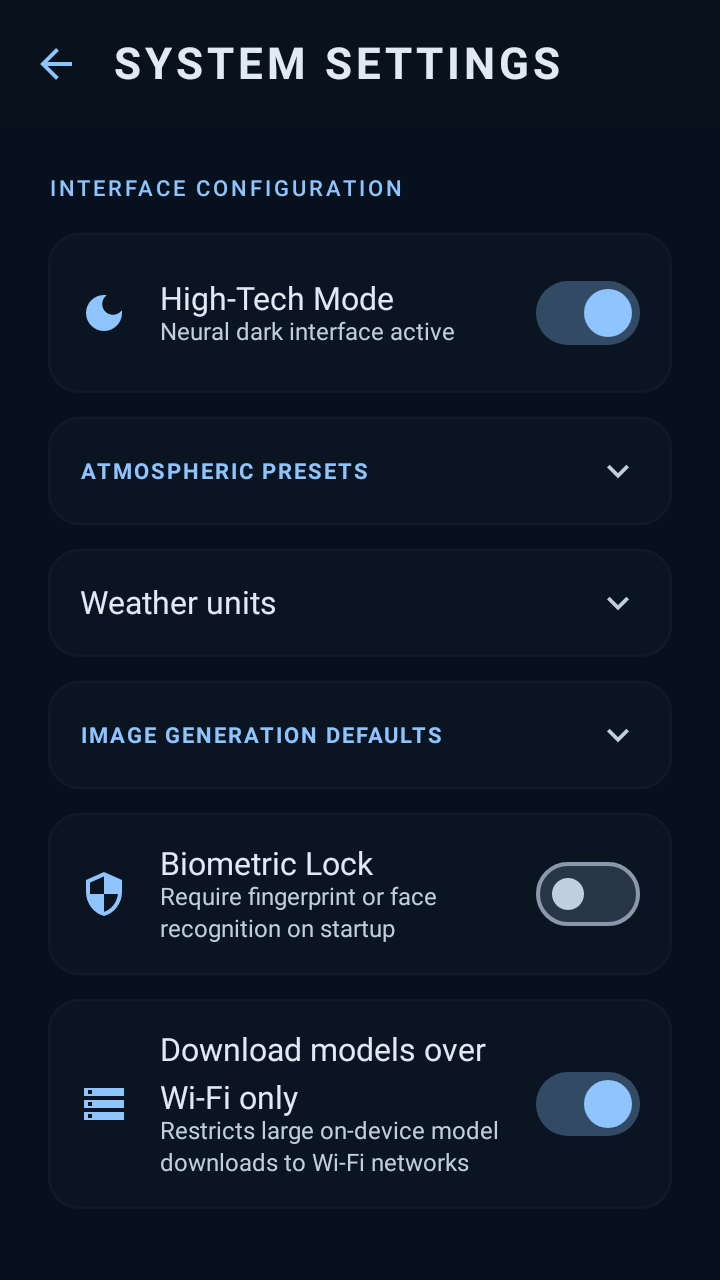
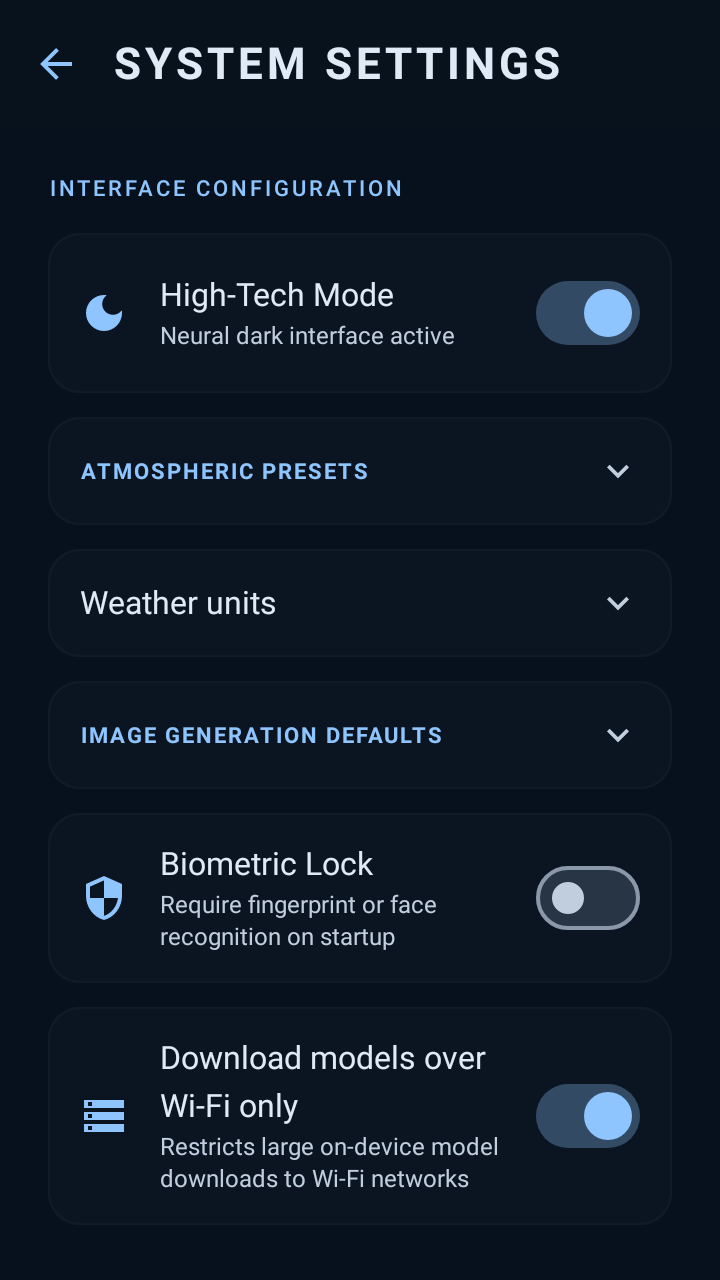
impl: Refactor settings toggles to use reusable SettingsToggleCard, and fix biometric lock padding

diff --git a/app/src/main/java/com/neo/chevere/ui/settings/SettingsScreen.kt b/app/src/main/java/com/neo/chevere/ui/settings/SettingsScreen.kt
@@ -48,7 +48,6 @@ import androidx.compose.runtime.getValue
 import androidx.compose.runtime.mutableStateOf
 import androidx.compose.runtime.remember
 import androidx.compose.runtime.setValue
-import androidx.compose.ui.Alignment
 import androidx.compose.ui.Modifier
 import androidx.compose.ui.graphics.Color
 import androidx.compose.ui.platform.LocalContext
@@ -66,6 +65,7 @@ import androidx.compose.material3.OutlinedTextField
 import androidx.compose.material3.OutlinedTextFieldDefaults
 import androidx.compose.material3.Slider
 import androidx.compose.material3.SliderDefaults
+import androidx.compose.ui.Alignment
 import com.neo.chevere.ui.common.ChevereHaptic
 import com.neo.chevere.ui.common.performChevereHaptic
 import com.neo.chevere.ui.designsystem.AtmosphericTheme
@@ -157,59 +157,18 @@ fun SettingsContent(
                     modifier = Modifier.padding(bottom = 16.dp)
                 )
 
-                Surface(
-                    color = MaterialTheme.colorScheme.surfaceContainerLow.copy(alpha = 0.5f),
-                    shape = RoundedCornerShape(16.dp),
-                    border = BorderStroke(
-                        1.dp,
-                        MaterialTheme.colorScheme.outlineVariant.copy(alpha = 0.1f)
-                    )
-                ) {
-                    Row(
-                        modifier = Modifier
-                            .fillMaxWidth()
-                            .padding(16.dp),
-                        verticalAlignment = Alignment.CenterVertically,
-                        horizontalArrangement = Arrangement.SpaceBetween
-                    ) {
-                        Row(verticalAlignment = Alignment.CenterVertically) {
-                            Icon(
-                                imageVector = if (state.isDarkMode) Icons.Default.DarkMode else Icons.Default.LightMode,
-                                contentDescription = null,
-                                tint = MaterialTheme.colorScheme.primary,
-                                modifier = Modifier.size(24.dp)
-                            )
-                            Spacer(Modifier.width(16.dp))
-                            Column {
-                                Text(
-                                    stringResource(R.string.high_tech_mode),
-                                    style = Typography.bodyLarge,
-                                    color = MaterialTheme.colorScheme.onSurface
-                                )
-                                Text(
-                                    if (state.isDarkMode) stringResource(R.string.neural_dark_active) else stringResource(
-                                        R.string.standard_light_active
-                                    ),
-                                    style = Typography.bodySmall,
-                                    color = MaterialTheme.colorScheme.onSurfaceVariant
-                                )
-                            }
-                        }
-                        Switch(
-                            checked = state.isDarkMode,
-                            onCheckedChange = {
-                                hapticView.performChevereHaptic(ChevereHaptic.Selection)
-                                viewModel.onIntent(SettingsIntent.UpdateTheme(it))
-                            },
-                            colors = SwitchDefaults.colors(
-                                checkedThumbColor = MaterialTheme.colorScheme.primary,
-                                checkedTrackColor = MaterialTheme.colorScheme.primary.copy(alpha = 0.3f),
-                                uncheckedThumbColor = MaterialTheme.colorScheme.onSurfaceVariant,
-                                uncheckedTrackColor = MaterialTheme.colorScheme.surfaceContainerHighest
-                            )
-                        )
+                // High-Tech Mode Card (Theme)
+                SettingsToggleCard(
+                    icon = if (state.isDarkMode) Icons.Default.DarkMode else Icons.Default.LightMode,
+                    title = stringResource(R.string.high_tech_mode),
+                    subtitle = if (state.isDarkMode) stringResource(R.string.neural_dark_active) else stringResource(
+                        R.string.standard_light_active
+                    ),
+                    checked = state.isDarkMode,
+                    onCheckedChange = {
+                        viewModel.onIntent(SettingsIntent.UpdateTheme(it))
                     }
-                }
+                )
 
                 Spacer(Modifier.height(12.dp))
 
@@ -254,120 +213,28 @@ fun SettingsContent(
                 Spacer(Modifier.height(12.dp))
 
                 // Biometric Security Card
-                Surface(
-                    color = MaterialTheme.colorScheme.surfaceContainerLow.copy(alpha = 0.5f),
-                    shape = RoundedCornerShape(16.dp),
-                    border = BorderStroke(
-                        1.dp,
-                        MaterialTheme.colorScheme.outlineVariant.copy(alpha = 0.1f)
-                    ),
-                    modifier = Modifier.fillMaxWidth()
-                ) {
-                    Row(
-                        modifier = Modifier
-                            .fillMaxWidth()
-                            .padding(16.dp),
-                        verticalAlignment = Alignment.CenterVertically,
-                        horizontalArrangement = Arrangement.SpaceBetween
-                    ) {
-                        Row(
-                            verticalAlignment = Alignment.CenterVertically,
-                            modifier = Modifier.weight(1f)
-                        ) {
-                            Icon(
-                                imageVector = Icons.Default.Security,
-                                contentDescription = null,
-                                tint = MaterialTheme.colorScheme.primary,
-                                modifier = Modifier.size(24.dp)
-                            )
-                            Spacer(Modifier.width(16.dp))
-                            Column {
-                                Text(
-                                    stringResource(R.string.biometric_lock),
-                                    style = Typography.bodyLarge,
-                                    color = MaterialTheme.colorScheme.onSurface
-                                )
-                                Text(
-                                    stringResource(R.string.biometric_lock_desc),
-                                    style = Typography.bodySmall,
-                                    color = MaterialTheme.colorScheme.onSurfaceVariant
-                                )
-                            }
-                        }
-                        Switch(
-                            checked = state.isBiometricLockEnabled,
-                            onCheckedChange = {
-                                hapticView.performChevereHaptic(ChevereHaptic.Selection)
-                                viewModel.onIntent(SettingsIntent.UpdateBiometricLock(it))
-                            },
-                            colors = SwitchDefaults.colors(
-                                checkedThumbColor = MaterialTheme.colorScheme.primary,
-                                checkedTrackColor = MaterialTheme.colorScheme.primary.copy(alpha = 0.3f),
-                                uncheckedThumbColor = MaterialTheme.colorScheme.onSurfaceVariant,
-                                uncheckedTrackColor = MaterialTheme.colorScheme.surfaceContainerHighest
-                            )
-                        )
+                SettingsToggleCard(
+                    icon = Icons.Default.Security,
+                    title = stringResource(R.string.biometric_lock),
+                    subtitle = stringResource(R.string.biometric_lock_desc),
+                    checked = state.isBiometricLockEnabled,
+                    onCheckedChange = {
+                        viewModel.onIntent(SettingsIntent.UpdateBiometricLock(it))
                     }
-                }
+                )
 
                 Spacer(Modifier.height(12.dp))
 
                 // Download on Wi-Fi Only Card
-                Surface(
-                    color = MaterialTheme.colorScheme.surfaceContainerLow.copy(alpha = 0.5f),
-                    shape = RoundedCornerShape(16.dp),
-                    border = BorderStroke(
-                        1.dp,
-                        MaterialTheme.colorScheme.outlineVariant.copy(alpha = 0.1f)
-                    ),
-                    modifier = Modifier.fillMaxWidth()
-                ) {
-                    Row(
-                        modifier = Modifier
-                            .fillMaxWidth()
-                            .padding(16.dp),
-                        verticalAlignment = Alignment.CenterVertically,
-                        horizontalArrangement = Arrangement.SpaceBetween
-                    ) {
-                        Row(
-                            verticalAlignment = Alignment.CenterVertically,
-                            modifier = Modifier.weight(1f)
-                        ) {
-                            Icon(
-                                imageVector = Icons.Default.Storage,
-                                contentDescription = null,
-                                tint = MaterialTheme.colorScheme.primary,
-                                modifier = Modifier.size(24.dp)
-                            )
-                            Spacer(Modifier.width(16.dp))
-                            Column {
-                                Text(
-                                    "Download models over Wi-Fi only",
-                                    style = Typography.bodyLarge,
-                                    color = MaterialTheme.colorScheme.onSurface
-                                )
-                                Text(
-                                    "Restricts large on-device model downloads to Wi-Fi networks",
-                                    style = Typography.bodySmall,
-                                    color = MaterialTheme.colorScheme.onSurfaceVariant
-                                )
-                            }
-                        }
-                        Switch(
-                            checked = state.downloadOnWifiOnly,
-                            onCheckedChange = {
-                                hapticView.performChevereHaptic(ChevereHaptic.Selection)
-                                viewModel.onIntent(SettingsIntent.UpdateDownloadOnWifiOnly(it))
-                            },
-                            colors = SwitchDefaults.colors(
-                                checkedThumbColor = MaterialTheme.colorScheme.primary,
-                                checkedTrackColor = MaterialTheme.colorScheme.primary.copy(alpha = 0.3f),
-                                uncheckedThumbColor = MaterialTheme.colorScheme.onSurfaceVariant,
-                                uncheckedTrackColor = MaterialTheme.colorScheme.surfaceContainerHighest
-                            )
-                        )
+                SettingsToggleCard(
+                    icon = Icons.Default.Storage,
+                    title = "Download models over Wi-Fi only",
+                    subtitle = "Restricts large on-device model downloads to Wi-Fi networks",
+                    checked = state.downloadOnWifiOnly,
+                    onCheckedChange = {
+                        viewModel.onIntent(SettingsIntent.UpdateDownloadOnWifiOnly(it))
                     }
-                }
+                )
 
                 Spacer(Modifier.height(32.dp))
 
@@ -1184,6 +1051,75 @@ private fun ImageAspectRatioSegment(
                 text = "${ratio.pixelWidth}x${ratio.pixelHeight}",
                 style = Typography.bodySmall.copy(fontSize = 9.sp, fontFamily = FontFamily.Monospace),
                 color = MaterialTheme.colorScheme.onSurfaceVariant
+            )
+        }
+    }
+}
+
+@Composable
+fun SettingsToggleCard(
+    icon: androidx.compose.ui.graphics.vector.ImageVector,
+    title: String,
+    subtitle: String,
+    checked: Boolean,
+    onCheckedChange: (Boolean) -> Unit,
+    modifier: Modifier = Modifier
+) {
+    val hapticView = LocalView.current
+    Surface(
+        color = MaterialTheme.colorScheme.surfaceContainerLow.copy(alpha = 0.5f),
+        shape = RoundedCornerShape(16.dp),
+        border = BorderStroke(
+            1.dp,
+            MaterialTheme.colorScheme.outlineVariant.copy(alpha = 0.1f)
+        ),
+        modifier = modifier.fillMaxWidth()
+    ) {
+        Row(
+            modifier = Modifier
+                .fillMaxWidth()
+                .padding(16.dp),
+            verticalAlignment = Alignment.CenterVertically,
+            horizontalArrangement = Arrangement.SpaceBetween
+        ) {
+            Row(
+                verticalAlignment = Alignment.CenterVertically,
+                modifier = Modifier.weight(1f)
+            ) {
+                Icon(
+                    imageVector = icon,
+                    contentDescription = null,
+                    tint = MaterialTheme.colorScheme.primary,
+                    modifier = Modifier.size(24.dp)
+                )
+                Spacer(Modifier.width(16.dp))
+                Column {
+                    Text(
+                        text = title,
+                        style = Typography.bodyLarge,
+                        color = MaterialTheme.colorScheme.onSurface
+                    )
+                    Spacer(Modifier.height(4.dp))
+                    Text(
+                        text = subtitle,
+                        style = Typography.bodySmall,
+                        color = MaterialTheme.colorScheme.onSurfaceVariant
+                    )
+                }
+            }
+            Spacer(Modifier.width(8.dp))
+            Switch(
+                checked = checked,
+                onCheckedChange = {
+                    hapticView.performChevereHaptic(ChevereHaptic.Selection)
+                    onCheckedChange(it)
+                },
+                colors = SwitchDefaults.colors(
+                    checkedThumbColor = MaterialTheme.colorScheme.primary,
+                    checkedTrackColor = MaterialTheme.colorScheme.primary.copy(alpha = 0.3f),
+                    uncheckedThumbColor = MaterialTheme.colorScheme.onSurfaceVariant,
+                    uncheckedTrackColor = MaterialTheme.colorScheme.surfaceContainerHighest
+                )
             )
         }
     }
